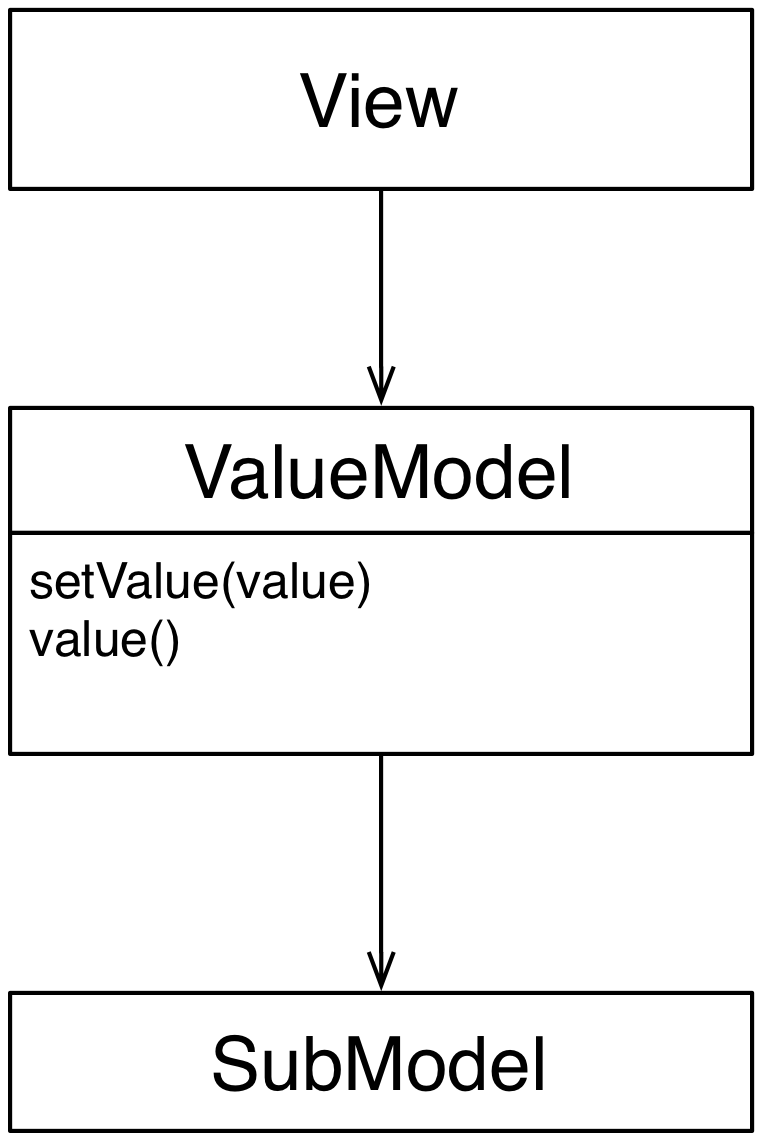
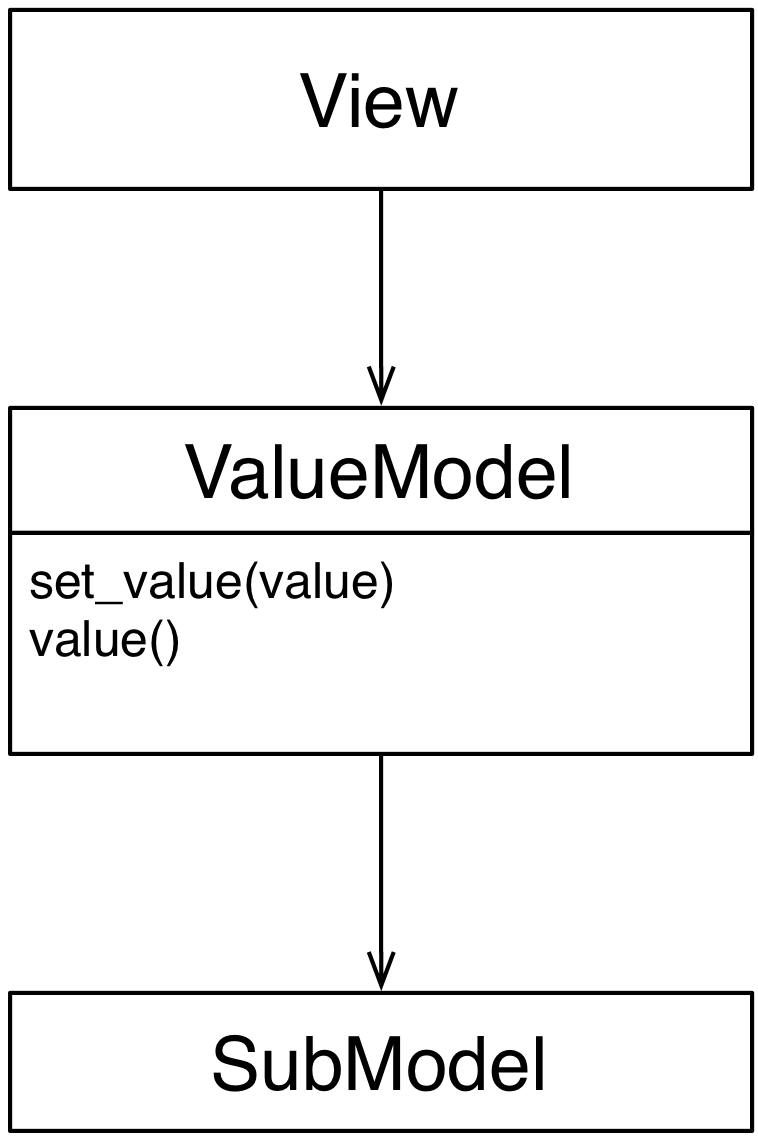
Finished ValueModel

Changed region(s): [[0.1214, 0.4925, 0.5158, 0.5541]]

diff --git a/02_mvc_variations/variations_on_the_model/value_model.md b/02_mvc_variations/variations_on_the_model/value_model.md
@@ -1,10 +1,11 @@
+<!--- Done -->
 # Value Model
 
 ### Motivation
 
 A Value Model is a model class adapting a complex Model into 
 a single value, exposed thought a uniform and trivial interface:
-a getter ``ValueModel.value()``, a setter ``ValueModel.setValue()``, 
+a getter ``ValueModel.value()``, a setter ``ValueModel.set_value()``, 
 and notification. 
 
 Views and Controllers can be extremely simple and off-the-shelf,
@@ -27,10 +28,10 @@ class ValueModel(Model):
     def __init__(self, model_object):
         self._model_object = model_object
     
-    def setValue(self, value):
+    def set_value(self, value):
         # do potentially complex logic on self._model_object
         # to appropriately manipulate the passed value
-        # This method triggers a valueChanged notification.
+        # This method triggers a value_changed notification.
         
     def value(self):
         # do potentially complex logic on self._model_object
@@ -40,7 +41,8 @@ class ValueModel(Model):
 
 Many different ValueModel classes can be implemented, each one
 adapting a different SubModel, or operating over different parts of a SubModel.
-Views and Controllers interact with the ValueModels through the minimalist interface, and are therefore agnostic of the ValueModel used.
+Views and Controllers interact with the ValueModels through the minimalist interface, 
+and are therefore agnostic of the ValueModel used.
 
 ### Practical Example
 
@@ -51,9 +53,9 @@ class NameValueModel(Model):
     def __init__(self, customer):
         self._customer = customer
     
-    def setValue(self, value):
+    def set_value(self, value):
         self._customer.name = value
-        self.notifyObservers()
+        self.notify_observers()
         
     def value(self):
         return self._customer.name
@@ -62,14 +64,15 @@ class SurnameValueModel(Model):
     def __init__(self, customer):
         self._customer = customer
     
-    def setValue(self, value):
+    def set_value(self, value):
         self._customer.surname = value
-        self.notifyObservers()
+        self.notify_observers()
         
     def value(self):
         return self._customer.surname
 ```
 
 Each of these two ValueModels can use an off-the-shelf 
-``StringWidget`` View, agnostic of the actual nature of the ``Customer`` model and retrieving/modifying data through the ValueModel interface.
+``StringWidget`` View, agnostic of the actual nature of the ``Customer`` model and 
+retrieving/modifying data through the ValueModel interface.
 

diff --git a/02_mvc_variations/variations_on_the_model/index.md b/02_mvc_variations/variations_on_the_model/index.md
@@ -7,7 +7,7 @@
    * [UI Retrieving Model](06_ui_retrieving_model.md): Model retrieving information through visual elements.
    * [Model Controller](09_model_controller.md)
    * [Local Model](12_local_model.md): Preserve the original Model state so that changes can be reverted.
-   * [Value Model](13_value_model.md): Trivialize complex model interface to a simple, universal interface.
+   * [Value Model](value_model.md): Trivialize complex Model interface to a simple, universal interface.
    * [Proxy Model](32_proxy_model.md): Acts as proxy for complex access to resources.
    * [Collection Model](34_collection_model.md): Holds and aggregates objects of the same type.
    * [View-aware Model](38_view_aware_model.md): A model that knows its views interface beyond simple notification delivery.

diff --git a/SUMMARY.md b/SUMMARY.md
@@ -19,7 +19,7 @@
        * [UI Retrieving Model](02_mvc_variations/variations_on_the_model/06_ui_retrieving_model.md)
        * [Model Controller](02_mvc_variations/variations_on_the_model/09_model_controller.md)
        * [Local Model](02_mvc_variations/variations_on_the_model/12_local_model.md)
-       * [Value Model](02_mvc_variations/variations_on_the_model/13_value_model.md)
+       * [Value Model](02_mvc_variations/variations_on_the_model/value_model.md)
        * [Proxy Model](02_mvc_variations/variations_on_the_model/32_proxy_model.md)
        * [Collection Model](02_mvc_variations/variations_on_the_model/34_collection_model.md)
        * [View-aware Model](02_mvc_variations/variations_on_the_model/38_view_aware_model.md)
